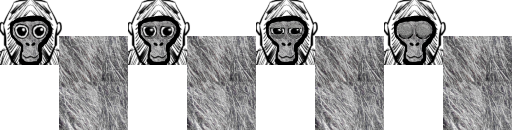
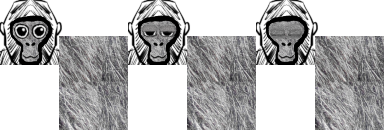
Content Update

diff --git a/src/Scripts/BlinkManager.cs b/src/Scripts/BlinkManager.cs
@@ -13,86 +13,73 @@ namespace DevBlinkMod.Scripts
         internal Vector2 mainTextureOffset;
 
         internal float blinkTime;
-        internal float blinkCooldown = 0.075f;
+        internal float blinkDelay
+        {
+            get 
+                => Time.time + Random.Range(2f, 7.5f);
+        }
+        internal const float blinkCooldownClosed = 0.22f;
+        internal const float blinkCooldown = 0.10f;
 
-        public BlinkState blink = BlinkState.Neutral;
-
+        public BlinkState currentBlinkState = BlinkState.Idle;
+        internal BlinkState lastBlinkState = BlinkState.Idle;
         public enum BlinkState
         {
-            Neutral,
-            BeginStart,
-            MiddleStart,
-            EndStart,
-            MiddleEnd,
-            BeginEnd
+            Idle,
+            IdleHalf,
+            BlinkClosed,
+            BlinkHalf
         }
 
-        internal float SetRandomBlinkTime() { return Time.time + Random.Range(0.5f, 6.5f); }
-
-        public void Start()
+        public void OnEnable()
         {
-            if (gameObject.GetComponent<VRRig>() == null) Destroy(this);
             rig = gameObject.GetComponent<VRRig>();
 
             faceRenderer = rig.headMesh.transform.Find("gorillaface").GetComponent<Renderer>();
             faceRenderer.material.mainTexture = Plugin.Instance.faceSheet;
-            faceRenderer.material.mainTextureScale = new Vector2(0.25f, 1f);
+            faceRenderer.material.mainTextureScale = new Vector2(1f / 3f, 1f);
             faceRenderer.material.mainTextureOffset = Vector2.zero;
-
-            blinkTime = SetRandomBlinkTime();
+            blinkTime = blinkDelay;
         }
 
         internal void LateUpdate()
         {
             if (rig == null || faceRenderer == null)
-            {
                 return;
-            }
-
-            if (rig.isOfflineVRRig)
-            {
-                faceRenderer.forceRenderingOff = PhotonNetwork.InRoom;
-            }
 
             if (Time.time >= blinkTime)
             {
-                switch (blink)
+                switch (currentBlinkState)
                 {
-                    case BlinkState.Neutral:
-                        blink = BlinkState.BeginStart;
-                        offsetX = 0.25f;
+                    case BlinkState.Idle:
+                        currentBlinkState = BlinkState.IdleHalf;
+                        offsetX = 1f / 3f;
+                        blinkTime = Time.time + blinkCooldown * 0.7f;
+                        break;
+                    case BlinkState.IdleHalf:
+                        currentBlinkState = BlinkState.BlinkClosed;
+                        offsetX = 1f / 3f * 2;
+                        blinkTime = Time.time + blinkCooldownClosed;
+                        break;
+                    case BlinkState.BlinkClosed:
+                        currentBlinkState = BlinkState.BlinkHalf;
+                        offsetX = 1f / 3f;
                         blinkTime = Time.time + blinkCooldown;
                         break;
-                    case BlinkState.BeginStart:
-                        blink = BlinkState.MiddleStart;
-                        offsetX = 0.5f;
-                        blinkTime = Time.time + blinkCooldown;
-                        break;
-                    case BlinkState.MiddleStart:
-                        blink = BlinkState.EndStart;
-                        offsetX = 0.75f;
-                        blinkTime = Time.time + blinkCooldown;
-                        break;
-                    case BlinkState.EndStart:
-                        blink = BlinkState.MiddleEnd;
-                        offsetX = 0.5f;
-                        blinkTime = Time.time + blinkCooldown;
-                        break;
-                    case BlinkState.MiddleEnd:
-                        blink = BlinkState.BeginEnd;
-                        offsetX = 0.25f;
-                        blinkTime = Time.time + blinkCooldown;
-                        break;
-                    case BlinkState.BeginEnd:
-                        blink = BlinkState.Neutral;
+                    case BlinkState.BlinkHalf:
+                        currentBlinkState = BlinkState.Idle;
                         offsetX = 0f;
-                        blinkTime = SetRandomBlinkTime();
+                        blinkTime = blinkDelay;
                         break;
                 }
             }
 
-            mainTextureOffset = new Vector2(offsetX, offsetY);
-            faceRenderer.material.mainTextureOffset = mainTextureOffset;
+            if (lastBlinkState != currentBlinkState)
+            {
+                lastBlinkState = currentBlinkState;
+                mainTextureOffset = new Vector2(offsetX, offsetY);
+                faceRenderer.material.mainTextureOffset = mainTextureOffset;
+            }
         }
     }
 }

diff --git a/src/Plugin.cs b/src/Plugin.cs
@@ -12,21 +12,24 @@ namespace DevBlinkMod
         public static Plugin Instance { get; private set; }
         public Texture2D faceSheet;
 
-        internal void Awake()
+        internal async void Awake()
         {
             Instance = this;
             BlinkLogger.LogMessage("DevBlinkMod awoken", BlinkLogger.LogType.Default);
 
-            HarmonyPatches.HarmonyPatches.ApplyHarmonyPatches();
+            HarmonyPatches.ApplyHarmonyPatches();
             BlinkLogger.LogMessage("Applied harmony patches", BlinkLogger.LogType.Default);
-
-            faceSheet = new Texture2D(512, 130, TextureFormat.RGBA32, false) { filterMode = FilterMode.Point };
 
             Stream manifestResourceStream = Assembly.GetExecutingAssembly().GetManifestResourceStream($"DevBlinkMod.Resources.blinksheet.png");
             byte[] bytes = new byte[manifestResourceStream.Length];
-            manifestResourceStream.Read(bytes, 0, bytes.Length);
+            await manifestResourceStream.ReadAsync(bytes, 0, bytes.Length);
 
-            faceSheet.name = "gorillachestface";
+            faceSheet = new Texture2D(384, 130, TextureFormat.RGB24, false)
+            {
+                wrapMode = TextureWrapMode.Clamp,
+                filterMode = FilterMode.Point,
+                name = "gorillachestface"
+            };
             faceSheet.LoadImage(bytes);
             faceSheet.Apply();
             BlinkLogger.LogMessage("Generated face texture", BlinkLogger.LogType.Default);

diff --git a/src/Scripts/Patches/VRRigPatch.cs b/src/Scripts/Patches/VRRigPatch.cs
@@ -1,0 +1,23 @@
+using DevBlinkMod.Scripts;
+using HarmonyLib;
+using System.Threading.Tasks;
+using UnityEngine;
+
+namespace DevBlinkMod.Scripts.Patches
+{
+    [HarmonyPatch(typeof(VRRig))]
+    internal class VRRigPatch
+    {
+        [HarmonyWrapSafe]
+        [HarmonyPostfix]
+        [HarmonyPatch("Start")]
+        internal async static void VRRigPostfix(VRRig __instance)
+        {
+            await Task.Delay(500);
+
+            GameObject instanceObject = __instance.gameObject;
+            if (instanceObject.GetComponent<BlinkManager>() != null && instanceObject.activeSelf) return;
+            instanceObject.AddComponent<BlinkManager>();
+        }
+    }
+}

diff --git a/src/HarmonyPatches.cs b/src/HarmonyPatches.cs
@@ -2,7 +2,7 @@
 using System;
 using System.Reflection;
 
-namespace DevBlinkMod.HarmonyPatches
+namespace DevBlinkMod
 {
     /// <summary>
     /// This class handles applying harmony patches to the game.
